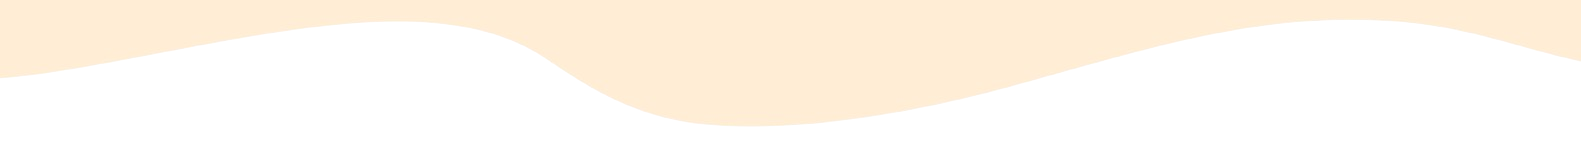
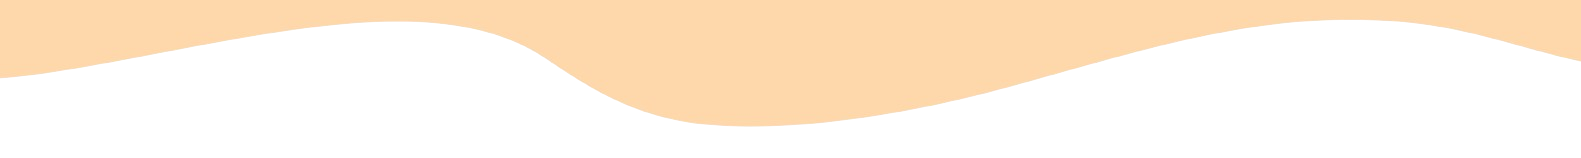
CMS changed therefore API changed

diff --git a/src/components/Navbar.jsx b/src/components/Navbar.jsx
@@ -1,6 +1,6 @@
 import { useState, useEffect } from 'react';
 import { Link, useNavigate } from 'react-router-dom';
-import { FaGithub, FaLinkedin} from 'react-icons/fa';
+import { FaGithub } from 'react-icons/fa';
 import logo from "../assets/logo.png"
 import { LiaBarsSolid } from "react-icons/lia";
 import { GoRss } from "react-icons/go";
@@ -11,7 +11,7 @@ const Navbar = () => {
 
 
   return (
-    <nav className="py-6 flex justify-between bg-orange-100 md:px-10 md:py-10">
+    <nav className="py-6 flex justify-between bg-orange-200 md:px-10 md:py-10">
         <div className="w-1/3 md:w-1/5"> 
           <Link to="/">
             <img src={logo} alt="logo" className="ml-5 w-full"/>
@@ -23,8 +23,7 @@ const Navbar = () => {
           <li className="text-4xl md:text-lg"><Link to="/contact">Contact</Link></li>
         </ul>
         <div className="flex md:w-1/5 md:justify-end">
-          <button className="text-2xl"><a href="https://www.linkedin.com/in/yawcoder" target="_blank"><FaLinkedin/></a></button>
-          <button className="text-2xl ml-4"><a href="https://github.com/yawcoder" target="_blank"><FaGithub/></a></button>
+          <button className="text-2xl"><a href="https://github.com/yawcoder" target="_blank"><FaGithub/></a></button>
           <button className="text-2xl hidden md:inline-block ml-5"><GoRss/></button>
           <button onClick={() => {setShowLinks(true)}} className="text-4xl ml-4 mr-5 md:hidden"><LiaBarsSolid/></button>
         </div>

diff --git a/src/components/Home.jsx b/src/components/Home.jsx
@@ -1,20 +1,19 @@
-import React, { useEffect, useState } from 'react'
-import wavy from "../assets/wavy.png"
-import { db } from '../firebase-config'
-import { collection, getDocs } from 'firebase/firestore'
+import { useEffect, useState } from 'react';
+import wavy from "../assets/wavy.png";
+import { db } from '../firebase-config';
+import { collection, getDocs } from 'firebase/firestore';
 
 const Home = () => {
   const [posts, setPosts] = useState([]);
-  const postCollectionRef = collection(db, "posts")
-  // const [articles, setArticles] = useState([])
+  const postCollectionRef = collection(db, "Posts");
 
   useEffect(() => {
     const getPosts = async () => {
       const data = await getDocs(postCollectionRef);
-      setPosts(data.docs.map((doc) => ({...doc.data(), id: doc.id})))
+      setPosts(data.docs.map((doc) => ({...doc.data(), id: doc.id})));
     }
     getPosts();
-  }, [])
+  }, []);
 
 
 
@@ -23,11 +22,9 @@ const Home = () => {
   return (
     <div className="w-full">
       <img src={wavy} className="w-screen"/>
-      <div className="w-[90%] mx-auto ">
-        <h2 className="uppercase font-bold">Recently Published Articles</h2>
-        {posts.map((post) => {
-          console.log(post.content)
-        })}
+      <div className="w-[90%] mx-auto my-5">
+        <h2 className="font-bold uppercase text-center text-gray-500">Recently Published Articles</h2>
+        {}
       </div>
     </div>
   )
